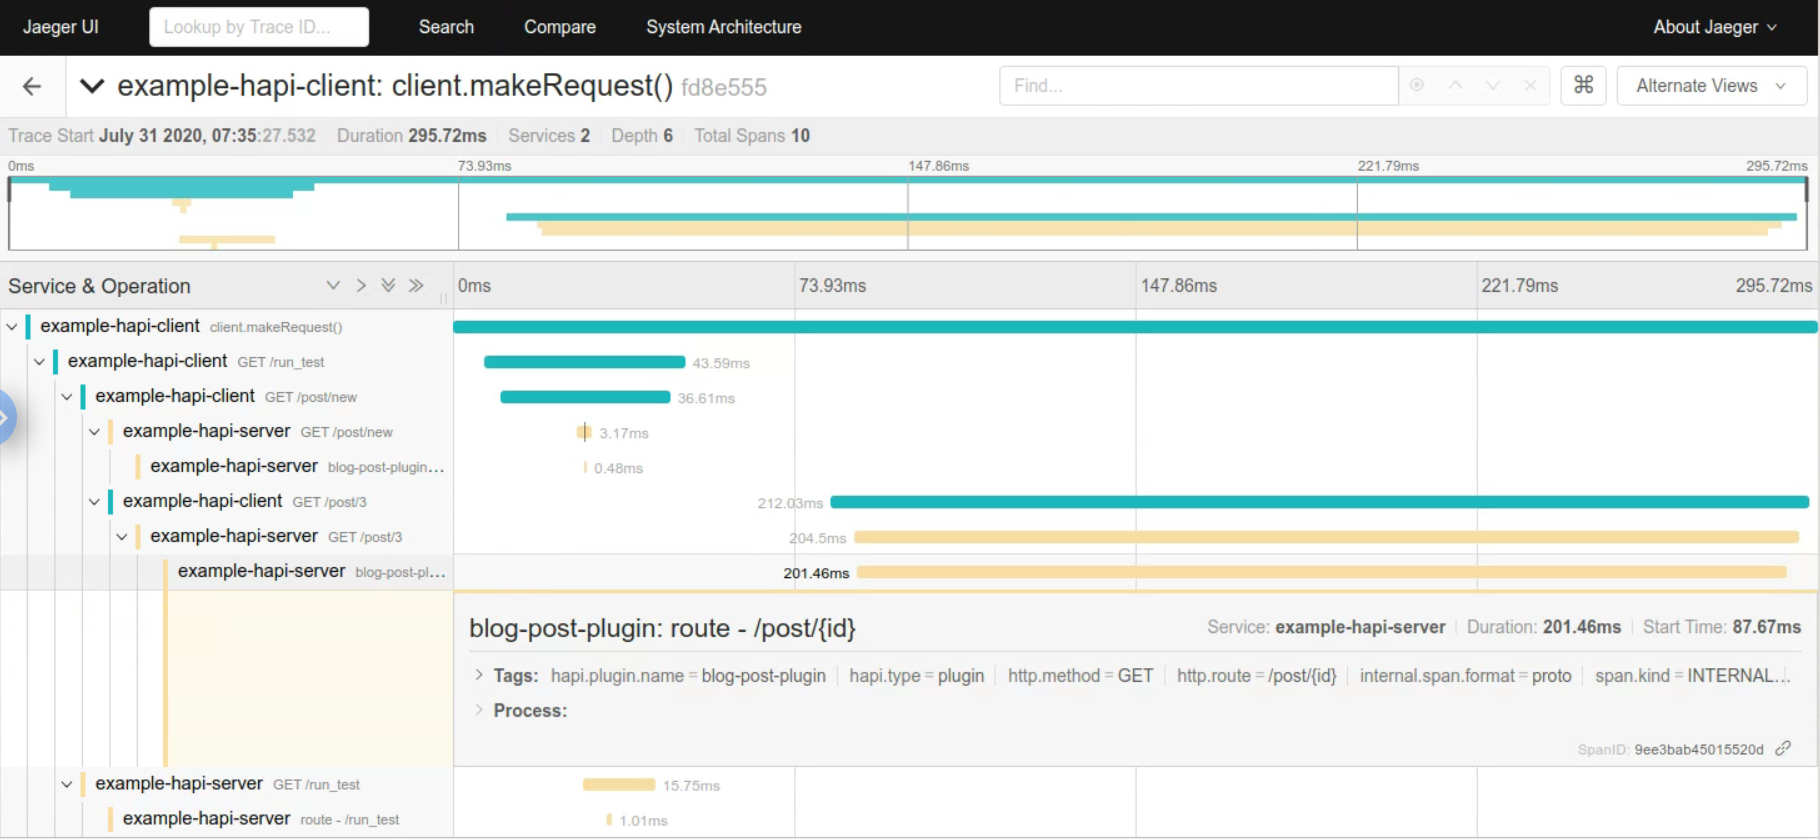
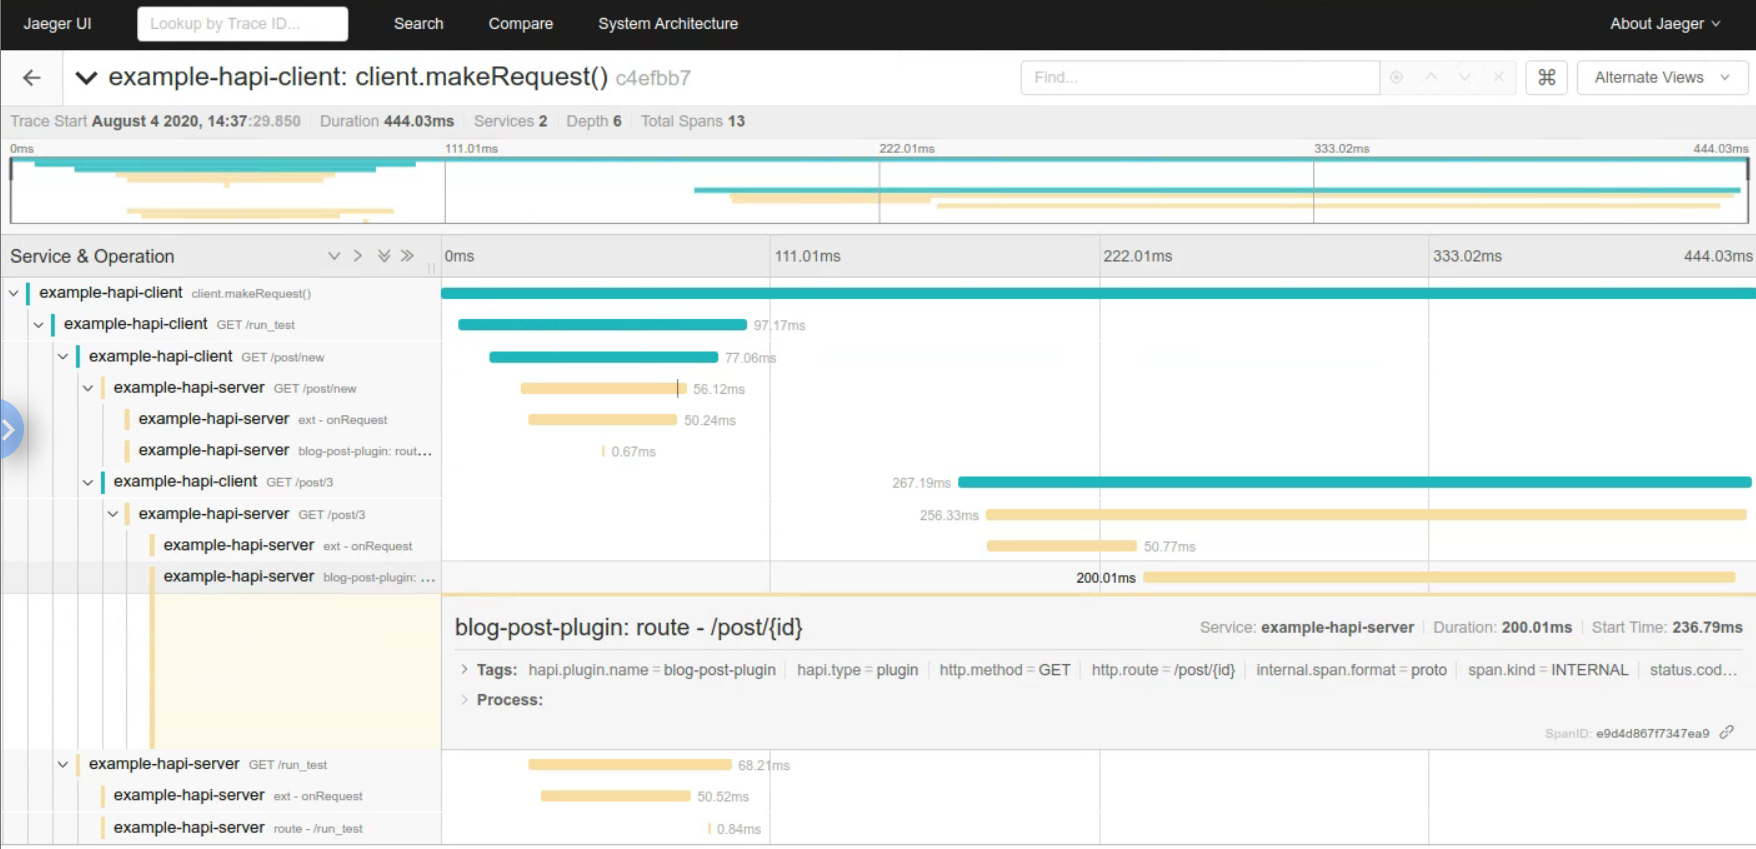
fix: update example code to include request extension instrumentation

Changed region(s): [[0.0, 0.0, 1.0, 1.0]]

diff --git a/examples/hapi/README.md b/examples/hapi/README.md
@@ -2,12 +2,12 @@
 
 OpenTelemetry Hapi Instrumentation allows the user to automatically collect trace data and export them to the backend of choice (we can use Zipkin or Jaeger for this example), to give observability to distributed systems.
 
-This is a simple example that demonstrates tracing calls made in a Hapi application. The example
-shows key aspects of tracing such as
+This is a simple example that demonstrates tracing calls made in a Hapi application. The example shows key aspects of tracing such as
 - Root Span (on Client)
 - Child Span (on Client)
-- Span Events
 - Span Attributes
+- Instrumentation for routes and request extension points
+- Instrumentation of Hapi plugins
 
 ## Installation
 
